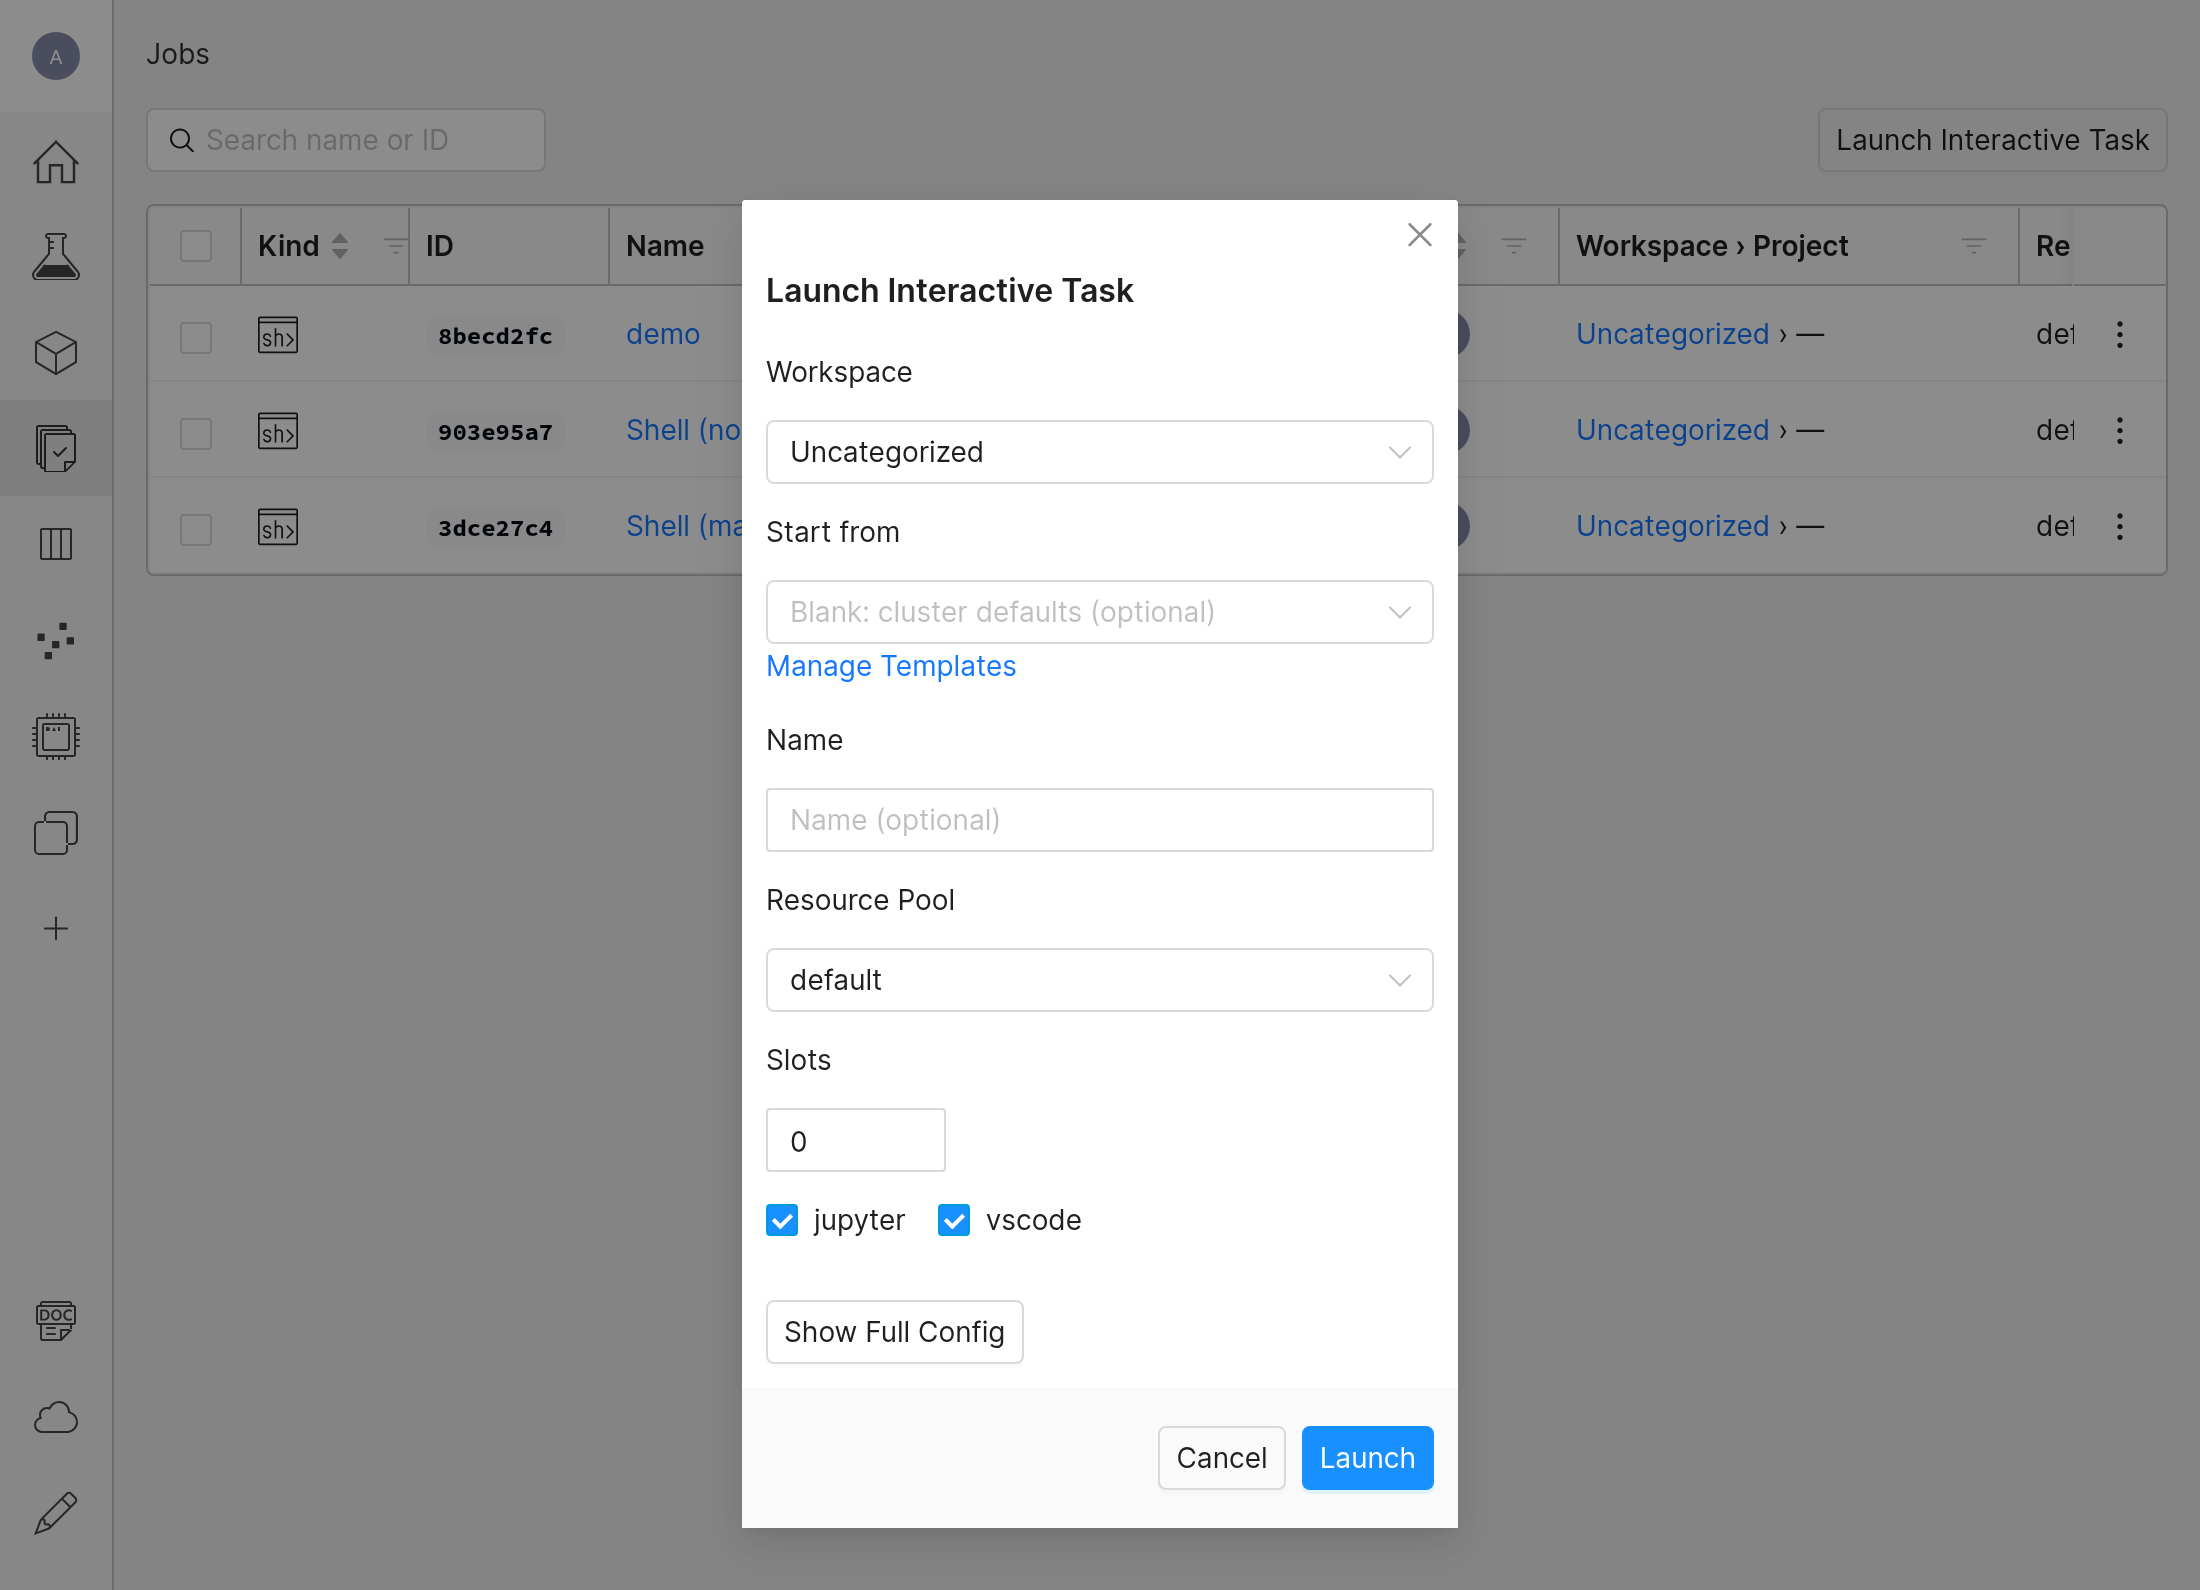
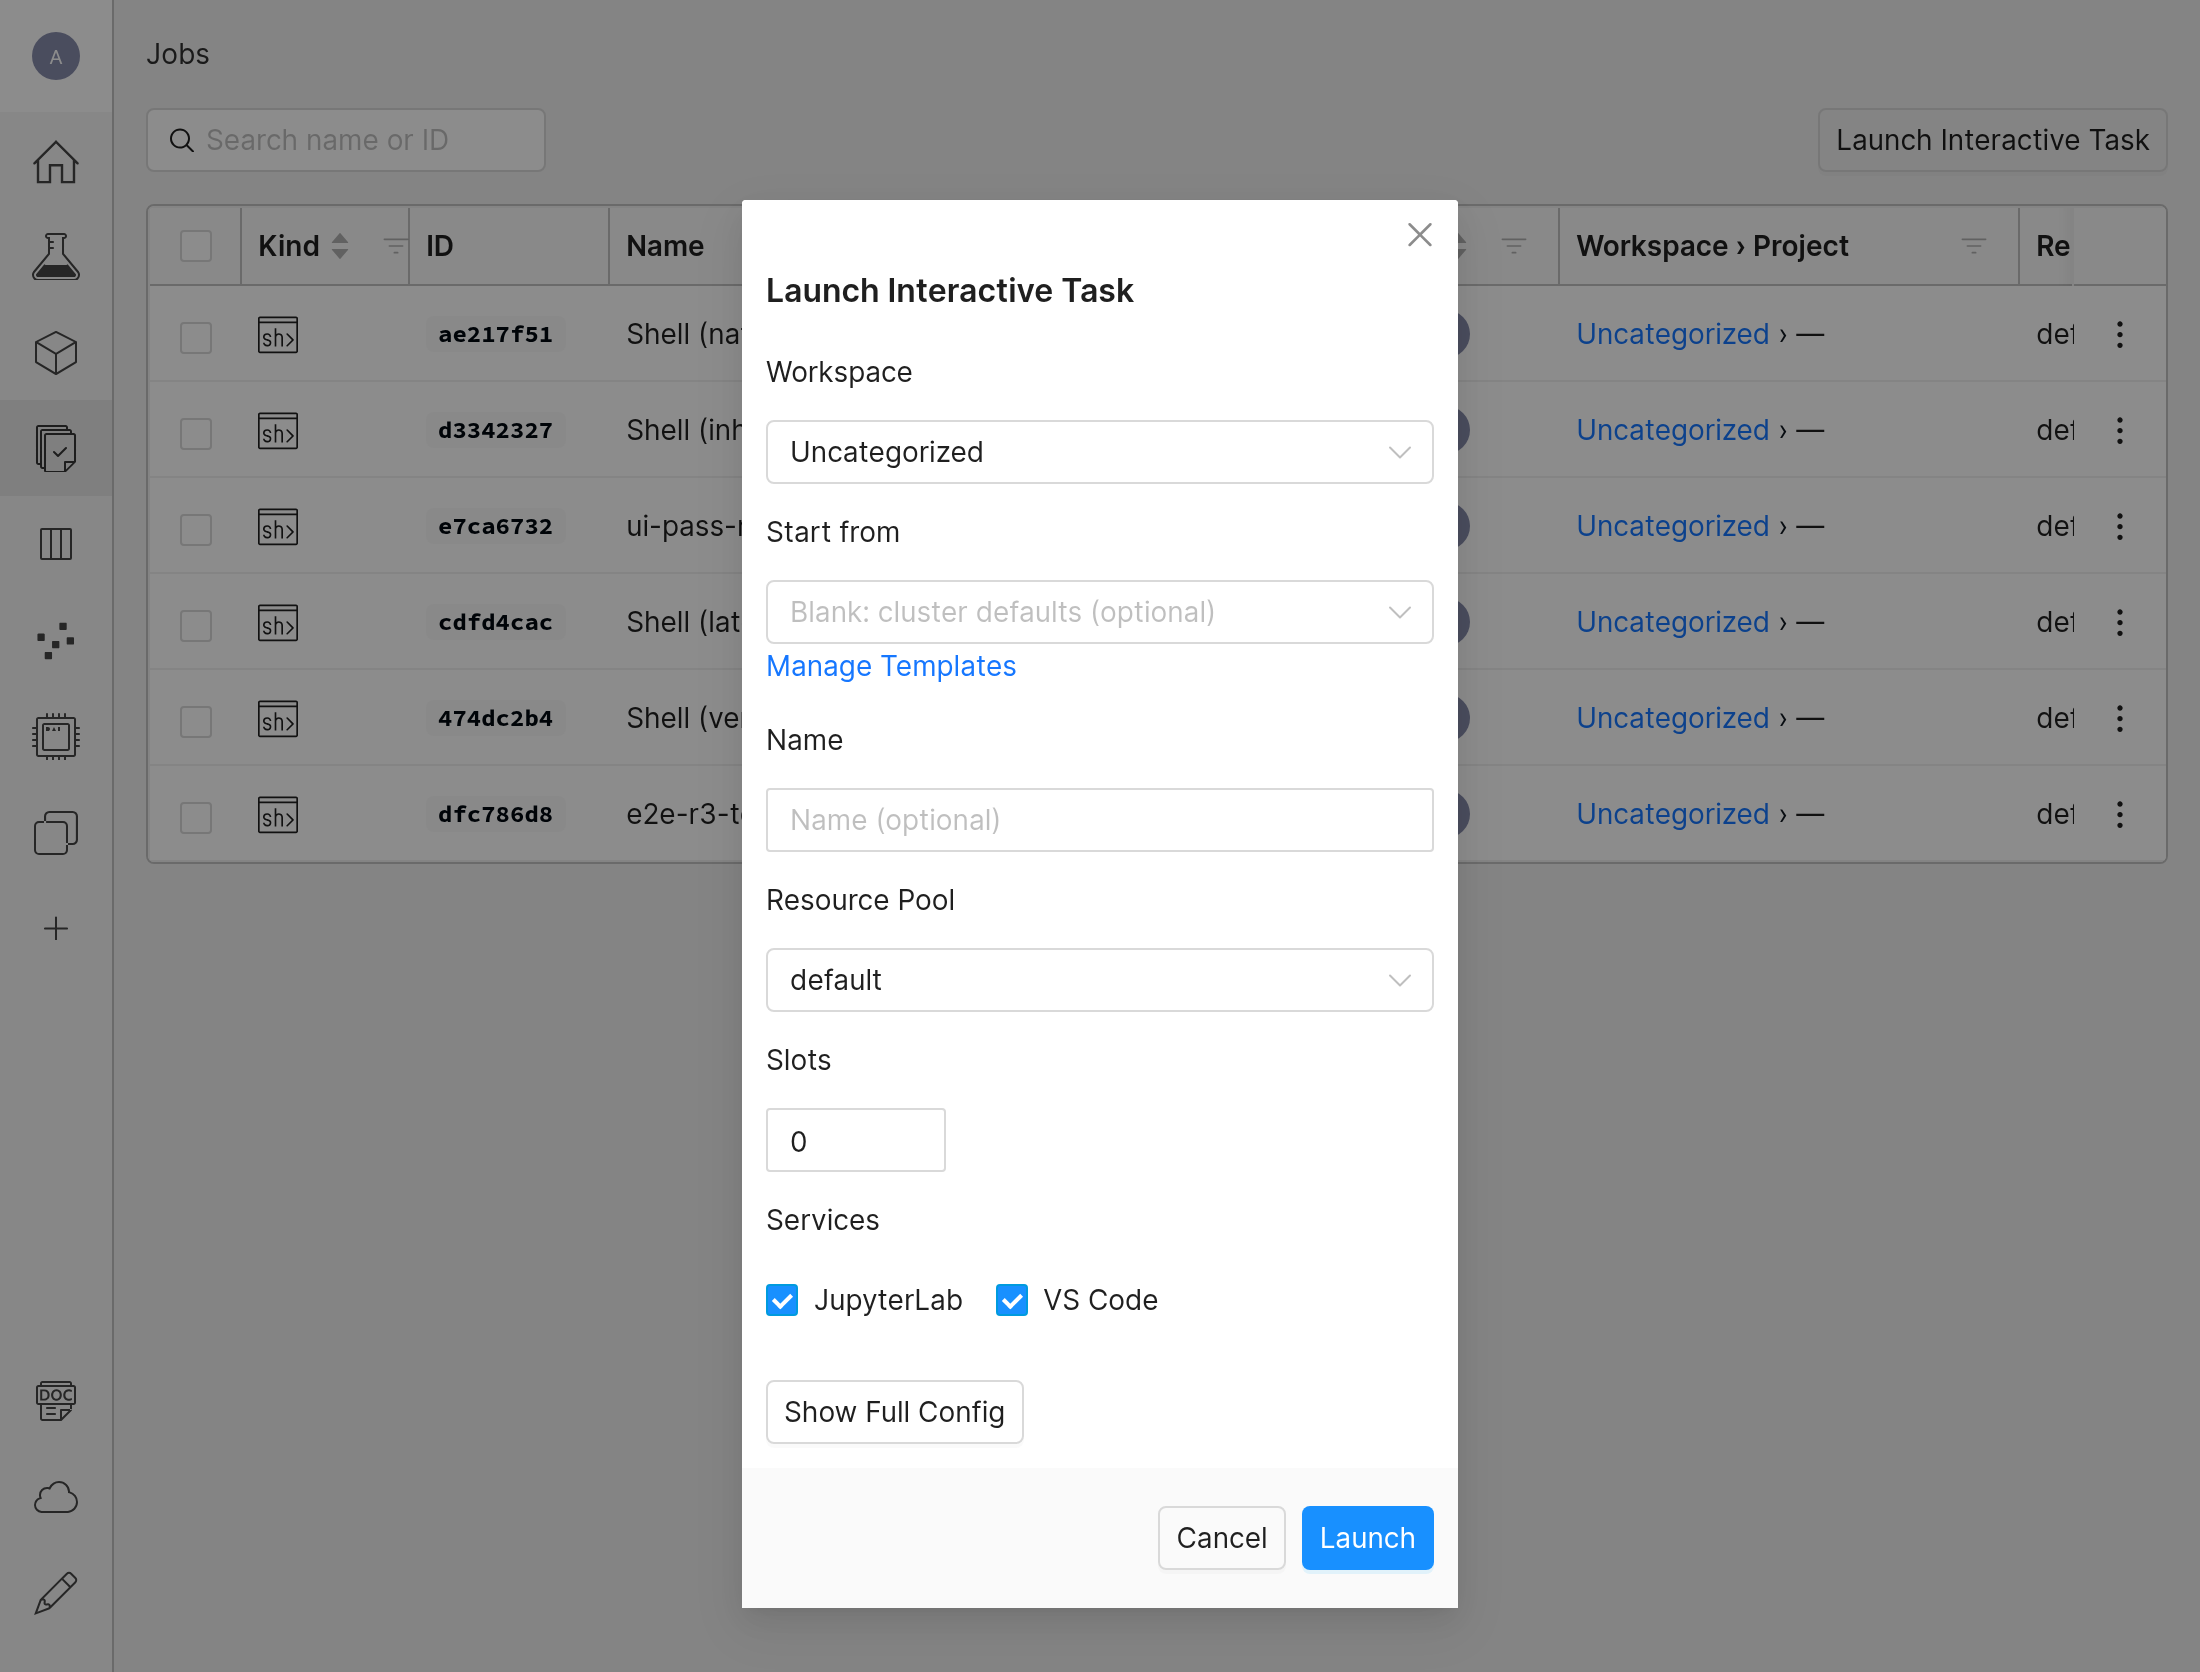
docs: the launch form screenshot with the Services label

diff --git a/README.md b/README.md
@@ -21,7 +21,7 @@ or until it has been idle for the `idle_timeout` its configuration sets.
 
 ![The task page of a shell with its Terminal, JupyterLab, VS Code, Logs and Resources tabs, JupyterLab open](docs/assets/images/interactive-task-page.png)
 
-![The Launch Interactive Task form with a resource pool, slots, and the jupyter and vscode services checked](docs/assets/images/launch-interactive-task.png)
+![The Launch Interactive Task form with a resource pool, slots, and the JupyterLab and VS Code services checked under Services](docs/assets/images/launch-interactive-task.png)
 
 ```bash
 det shell start                    # an SSH session; JupyterLab and VS Code run with it
